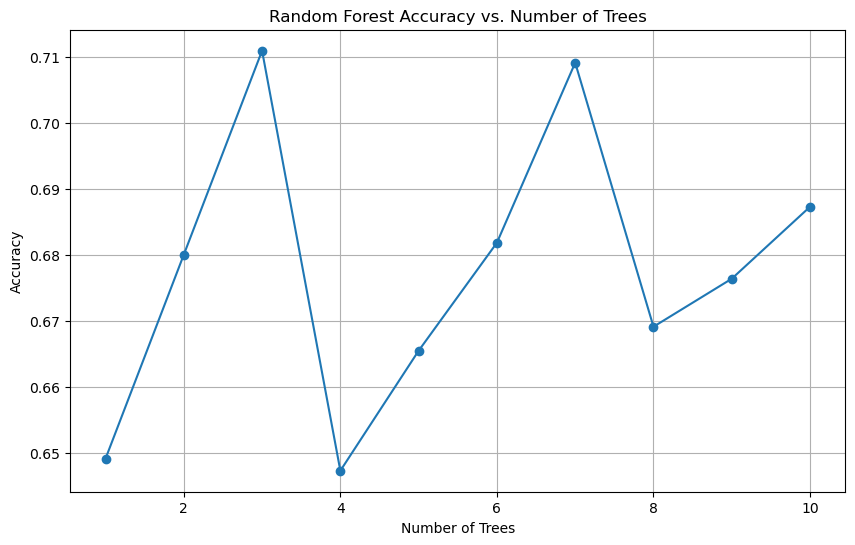
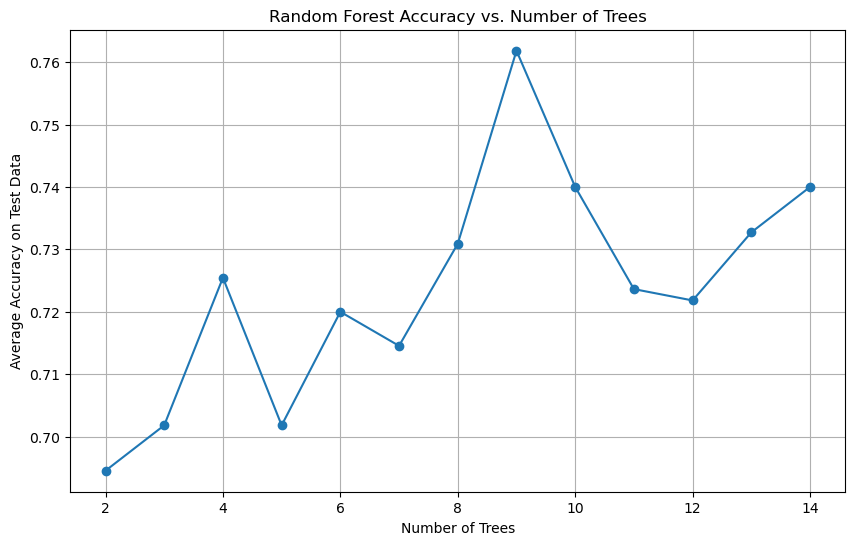
randomly select attributes for random forests

diff --git a/homework-1/tune_random_forests.py b/homework-1/tune_random_forests.py
@@ -37,13 +37,13 @@ def plot_random_forest_id3_accuracies(
     plt.plot(
         training_sizes,
         avg_test_accuracy_rf,
-        label="RF",
+        label="Random Forest",
         color="green",
     )
     plt.xlabel("Number of Training Examples")
     plt.ylabel("Average Accuracy on Test Data")
     plt.title(
-        f"Learning Curves for {dataset_name} Data - ID3 (With and Without Pruning) vs RF"
+        f"Learning Curves for {dataset_name} Data - ID3 (With and Without Pruning) vs Random Forest"
     )
     plt.legend()
     plt.grid(True)
@@ -62,7 +62,7 @@ def plot_num_trees_accuracies(accuracies_dict):
     plt.plot(trees, accuracy, marker="o", linestyle="-")
     plt.title("Random Forest Accuracy vs. Number of Trees")
     plt.xlabel("Number of Trees")
-    plt.ylabel("Accuracy")
+    plt.ylabel("Average Accuracy on Test Data")
     plt.grid(True)
     plt.savefig("images/rf_num_trees_accuracies.png", bbox_inches="tight")
 
@@ -74,7 +74,7 @@ def get_best_num_trees_for_random_forest(filename):
     data = parse.parse(filename)
     num_trees_accuracies = {}
 
-    for num_trees in range(1, 11):
+    for num_trees in range(2, 15):
         accuracies = []
         for _ in range(25):
             random.shuffle(data)
@@ -83,7 +83,7 @@ def get_best_num_trees_for_random_forest(filename):
             test = data[3 * len(data) // 4 :]
 
             random_forest = RandomForest(num_trees)
-            random_forest.fit(train + valid, 0)
+            random_forest.fit(train + valid)
             acc = random_forest.test(test)
             accuracies.append(acc)
         num_trees_accuracies[num_trees] = sum(accuracies) / len(accuracies)
@@ -127,7 +127,7 @@ def learning_curves_random_forest_id3(filename, training_sizes, num_trees):
             without_pruning.append(acc)
 
             random_forest = RandomForest(num_trees)
-            random_forest.fit(train + valid, 0)
+            random_forest.fit(train + valid)
             acc = random_forest.test(test)
             rf_acc.append(acc)
 
@@ -173,7 +173,7 @@ def compare_accuracies_id3_rf(filename, num_trees):
         without_pruning.append(acc)
 
         random_forest = RandomForest(num_trees)
-        random_forest.fit(train + valid, 0)
+        random_forest.fit(train + valid)
         acc = random_forest.test(test)
         rf_acc.append(acc)
     print(
@@ -192,5 +192,5 @@ def compare_accuracies_id3_rf(filename, num_trees):
 
 if __name__ == "__main__":
     best_num_trees = get_best_num_trees_for_random_forest("candy.data")
-    learning_curves_random_forest_id3("candy.data", range(5, 64, 4), best_num_trees)
+    learning_curves_random_forest_id3("candy.data", range(5, 68, 4), best_num_trees)
     compare_accuracies_id3_rf("candy.data", best_num_trees)

diff --git a/homework-1/random_forest.py b/homework-1/random_forest.py
@@ -21,7 +21,7 @@ class RandomForest:
         self.random_forest_nodes = []
         self.num_trees = num_trees
 
-    def fit(self, examples, default):
+    def fit(self, examples):
         """
         Fits the random forest to a dataset using bootstrapped samples and
         creates decision trees.
@@ -33,7 +33,16 @@ class RandomForest:
             bootstrap_sample = [
                 random.choice(examples) for _ in range(len(examples) + 1)
             ]
-            random_forest_node = ID3.ID3(bootstrap_sample, default)
+            available_attributes = [
+                attribute for attribute in examples[0].keys() if attribute != "Class"
+            ]
+            subset_attributes = set(
+                random.sample(
+                    available_attributes,
+                    random.randint(2, len(available_attributes)),
+                )
+            )
+            random_forest_node = ID3.ID3_helper(bootstrap_sample, subset_attributes)
             self.random_forest_nodes.append(random_forest_node)
 
     def test(self, examples):
